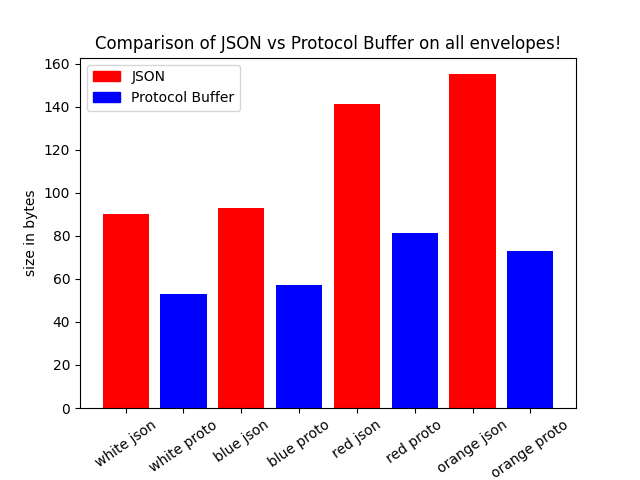
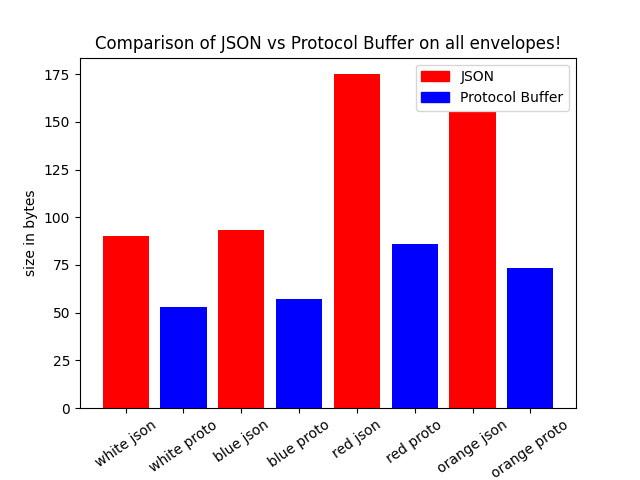
fix: new values for red envelope

diff --git a/README.md b/README.md
@@ -270,7 +270,8 @@ Red:
 {
   "type": "Notification",
   "sender": "2.0.0.0.0",
-  "toState": "Running"
+  "toState": "Running",
+  "time_stamp": 1693389087.1995819
 }
 ```
 
@@ -796,7 +797,7 @@ Note: In current version it is implemented just for MOM architecture.
 |:---------|:-------:|:--------------:|----------:|
 | White    |  90 B   |      53 B      |      41 % |
 | Blue     | 93.2 B  |     57.2 B     |      39 % |
-| Red      | 141.2 B |     81.2 B     |      42 % |
+| Red      |  175 B  |     86.2 B     |      51 % |
 | Orange   | 155.2 B |     73.2 B     |      53 % |
 | Average  | 119.9 B |    66.15 B     |      45 % |
 
